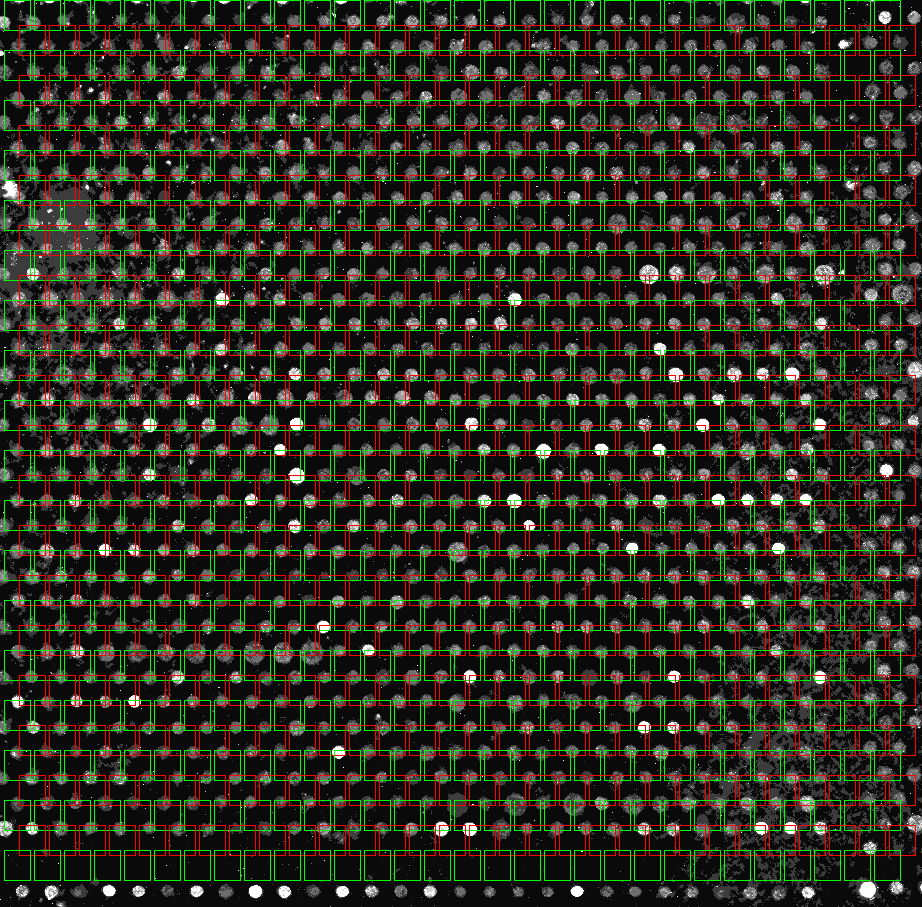
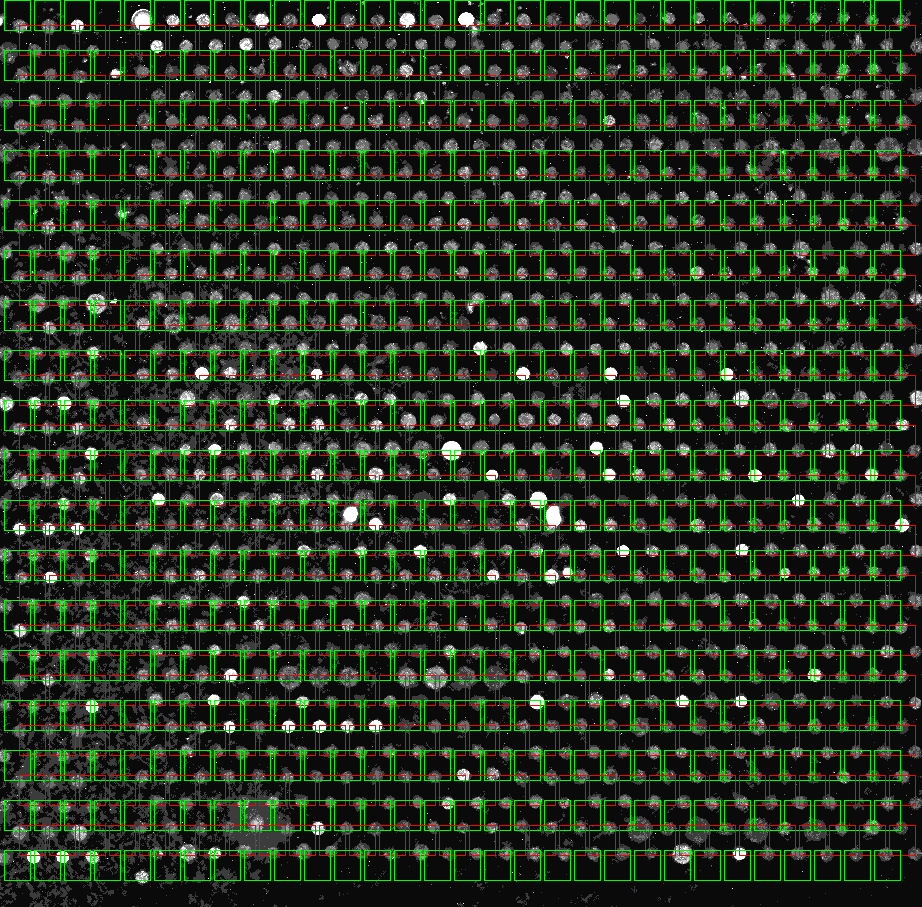
Naprawiono zmianę położenia podczas aktualizacji bloku

diff --git a/praca_inzynierska.py b/praca_inzynierska.py
@@ -4,11 +4,12 @@ from PyQt5.QtGui import QPixmap, QPen, QColor, QBrush, QFont, QImage
 from PyQt5.QtWidgets import QGraphicsRectItem, QMainWindow, QFileDialog, QMessageBox, QTableWidgetItem, \
     QGraphicsTextItem, QLabel
 from PIL import Image
-from window import Ui_AnotherWindow
 import cv2
 import pandas as pd
 import numpy as np
 import scipy.io
+
+from window import MainWindow1, rect_list
 
 wResultList = []
 sResultList = []
@@ -127,16 +128,22 @@ class StaticObject(QGraphicsRectItem):
                 tol.visibility_f()
 
     def mouseReleaseEvent(self,event):
+
+        self.set_net_of_spots_on_image()
+        Ui_MainWindow.open_new_window(self, 'temporary_images/obraz.png','Block: ' + str(StaticObject.get_id(self)),StaticObject.get_id(self))
+
+    def set_net_of_spots_on_image(self):
+
         image_o = Image.open(path_of_file)
         img = np.array(image_o)
         y0 = int(self.y())
         x0 = int(self.x())
         y1 = int(StaticObject.get_h(self) + int(self.y()))
         x1 = int(StaticObject.get_w(self) + int(self.x()))
-        npimg = image_o.crop((x0,y0,x1,y1))
+        npimg = image_o.crop((x0, y0, x1, y1))
         imsave = npimg.save('temporary_images/Mojobrazek.png')
 
-        imagee = cv2.imread('temporary_images/Mojobrazek.png')[...,::-1]
+        imagee = cv2.imread('temporary_images/Mojobrazek.png')[..., ::-1]
 
         alpha = alpha_beta[0]
         beta = alpha_beta[1]
@@ -192,13 +199,11 @@ class StaticObject(QGraphicsRectItem):
         for tol in textObjectList:
             if tol.id == int(StaticObject.get_id(self)):
                 tol.visibility_t()
-                tol.setPos(int(self.x()+35),int(self.y()))
+                tol.setPos(int(self.x() + 35), int(self.y()))
 
-        #change color of block after moving
+        # change color of block after moving
         self.setBrush(QBrush(QColor(0, 0, 255, 100)))
         self.setPen(QPen(QColor(0, 0, 0), 1.0, Qt.SolidLine))
-
-        Ui_MainWindow.open_new_window(self, 'temporary_images/obraz.png','Block: ' + str(StaticObject.get_id(self)))
 
 class MovingObject(QGraphicsRectItem):
     amount_of_spots = 0
@@ -261,13 +266,25 @@ class MovingObject(QGraphicsRectItem):
     # mouse hover event
 
 class Ui_MainWindow(object):
-    def open_new_window(self, image, name):
-        self.window = QtWidgets.QMainWindow()
-        self.window.setWindowTitle(name)
-        self.ui = Ui_AnotherWindow()
-        self.ui.setupUi(self.window)
-        self.ui.setImage(image)
-        self.window.show()
+    def open_new_window(self, image, name, block_id):
+        if block_id in rect_list:
+            if self.window.isHidden():
+                rect_list.remove(block_id)
+                self.window = QtWidgets.QMainWindow()
+                self.window.setWindowTitle(name)
+                self.ui = MainWindow1()
+                self.ui.setupUi(self.window)
+                self.ui.setImage(image, block_id)
+                self.window.show()
+            else:
+                self.ui.setImage(image,block_id)
+        else:
+            self.window = QtWidgets.QMainWindow()
+            self.window.setWindowTitle(name)
+            self.ui = MainWindow1()
+            self.ui.setupUi(self.window)
+            self.ui.setImage(image,block_id)
+            self.window.show()
 
     def setupUi(self, MainWindow):
         MainWindow.setObjectName("MainWindow")

diff --git a/window.py b/window.py
@@ -1,36 +1,30 @@
-# -*- coding: utf-8 -*-
-
-# Form implementation generated from reading ui file 'newwin.ui'
-#
-# Created by: PyQt5 UI code generator 5.13.2
-#
-# WARNING! All changes made in this file will be lost!
-
-
-from PyQt5 import QtCore, QtGui, QtWidgets
+from PyQt5 import QtCore, QtWidgets
 from PyQt5.QtCore import Qt
 from PyQt5.QtGui import QPixmap
+from PyQt5.QtWidgets import QMainWindow
 
+rect_list = []
 
 class Ui_AnotherWindow(object):
-    def setupUi(self, AnotherWindow):
-        AnotherWindow.setObjectName("AnotherWindow")
-        AnotherWindow.setEnabled(True)
-        AnotherWindow.resize(900, 900)
-        self.centralwidget = QtWidgets.QWidget(AnotherWindow)
+    def setupUi(self, MainWindow1):
+        MainWindow1.setObjectName("AnotherWindow")
+        MainWindow1.setEnabled(True)
+        MainWindow1.resize(900, 900)
+        MainWindow1.setWindowFlags(QtCore.Qt.WindowStaysOnTopHint)
+        self.centralwidget = QtWidgets.QWidget(MainWindow1)
         self.centralwidget.setObjectName("centralwidget")
         self.graphicsView = QtWidgets.QGraphicsView(self.centralwidget)
         self.graphicsView.setGeometry(QtCore.QRect(0, 0, 889, 874))
         self.graphicsView.setObjectName("graphicsView")
-        AnotherWindow.setCentralWidget(self.centralwidget)
-        self.menubar = QtWidgets.QMenuBar(AnotherWindow)
+        self.graphicsView.viewport().installEventFilter(self)
+        MainWindow1.setCentralWidget(self.centralwidget)
+        self.menubar = QtWidgets.QMenuBar(MainWindow1)
         self.menubar.setGeometry(QtCore.QRect(0, 0, 802, 21))
         self.menubar.setObjectName("menubar")
-        AnotherWindow.setMenuBar(self.menubar)
-        self.statusbar = QtWidgets.QStatusBar(AnotherWindow)
+        MainWindow1.setMenuBar(self.menubar)
+        self.statusbar = QtWidgets.QStatusBar(MainWindow1)
         self.statusbar.setObjectName("statusbar")
-        AnotherWindow.setStatusBar(self.statusbar)
-
+        MainWindow1.setStatusBar(self.statusbar)
         self.scene_1 = QtWidgets.QGraphicsScene()
         self.view = QtWidgets.QGraphicsView(self.scene_1)
         self.graphicsView.setScene(self.scene_1)
@@ -38,15 +32,20 @@ class Ui_AnotherWindow(object):
         self.scene_1.addPixmap(QPixmap('Image.png'))
         self.view.fitInView(self.scene_1.sceneRect(), Qt.KeepAspectRatio)
 
-    def setImage(self, image):
+    def setImage(self, image,block_id):
         self.scene_1.clear()
         self.scene_1.addPixmap(QPixmap(image))
+        if block_id not in rect_list:
+            rect_list.append(block_id)
+
+class MainWindow1(QMainWindow, Ui_AnotherWindow):
+    def __init__(self, parent=None):
+        QMainWindow.__init__(self, parent=parent)
+        self.setupUi(self)
 
 if __name__ == "__main__":
     import sys
     app = QtWidgets.QApplication(sys.argv)
-    AnotherWindow = QtWidgets.QMainWindow()
-    ui = Ui_AnotherWindow()
-    ui.setupUi(AnotherWindow)
-    AnotherWindow.show()
+    w = MainWindow1()
     sys.exit(app.exec_())
+
